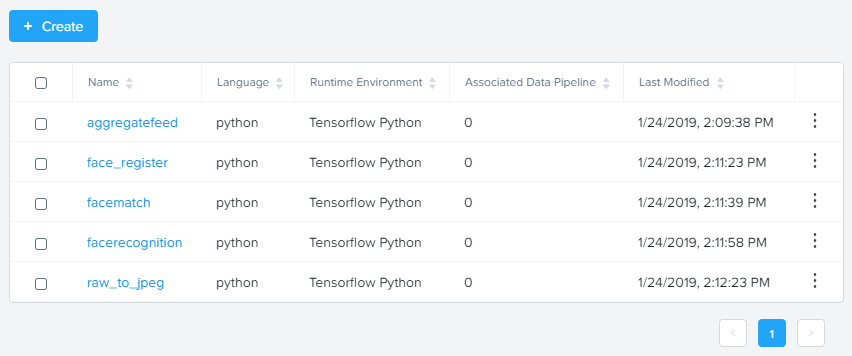
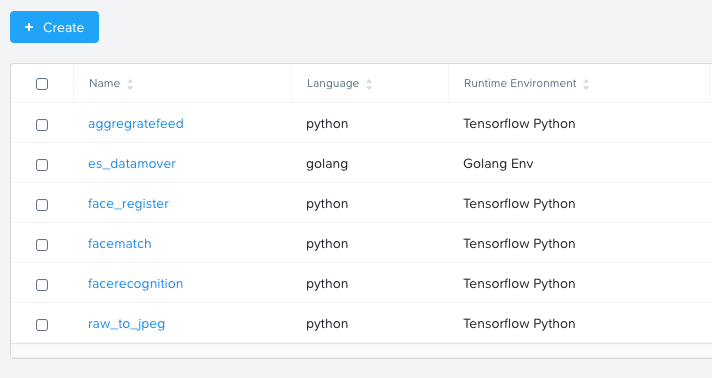
Updates for v1.12.

diff --git a/index.rst b/index.rst
@@ -47,10 +47,11 @@ The Facefeed application utilizes five Functions within two Data Pipelines to tr
 - **facematch.py** - Matches inference results to database of registered faces.
 - **facerecognition.py** - Uses a TensorFlow machine learning model to draw inference.
 - **raw_to_jpeg.py** - Converts the raw binary stream into a readable image format.
+- **es_datamover.go - Streams output into a local Elasticsearch instance for later recall.
 
 #. Open https://github.com/nutanix/xi-iot in a new browser tab and click **Clone or download > Download ZIP**.
 
-#. Extract the .zip file to a directory. These are required when referencing .yaml and .py files later in this tutorial.
+#. Extract the .zip file to a directory. These are required when referencing .yaml, .py, and .go files later in this tutorial.
 
 Defining Categories
 +++++++++++++++++++
@@ -223,8 +224,17 @@ This allows developers to re-use existing code, or quickly write new logic utili
 
 #. Click **Create**.
 
-#. Repeat Steps 1-5 to add the remaining 4 functions. The **Name** should follow the script name (without .py).
+#. Repeat Steps 1-5 to add the remaining four .py python functions. The **Name** should follow the script name (without .py). 
 
+#. Repeat Steps 1-4 once more to add the es_datamover.go function. Note that the Language and Runtime Environment should be golang, and Golang Env. 
+  
+   Before clicking Create, click **+ Add parameter** in the left pane.
+   Enter **esIndex** in the Name field.
+   Select **string** form the Type dropdown.
+   Click the :fa:`check` to save the parameter.
+
+#. Click **Create**.
+   
    Once completed, your environment should match the image below:
 
    .. figure:: images/10.png
@@ -256,8 +266,11 @@ This Data Pipeline will source the frames from a local webcam or uploaded image 
    - Select **+ Add Function > facerecognition**
    - Select :fa:`plus-circle` to add an additional function
    - Select **face_register**
-   - Select **+ Add Destination > Edge**
-   - **Endpoint Type** - Elasticsearch
+   - Select :fa:`plus-circle` to add an additional function
+   - Select **es_datamover**
+   - Type **datastream-face_register** in the esIndex (string) field.
+   - Select **+ Add Destination > Infrastructure**
+   - **Endpoint Type** - Realtime Data Stream
    - **Endpoint Name** - datastream-faceregister
 
    .. figure:: images/11.png
@@ -292,8 +305,11 @@ The containerized UI application you’ll deploy will show the known vs unknown 
    - Select **facematch**
    - Select :fa:`plus-circle` to add an additional function
    - Select **aggregatefeed**
-   - Select **+ Add Destination > Edge**
-   - **Endpoint Type** - Elasticsearch
+   - Select :fa:`plus-circle` to add an additional function
+   - Select **es_datamover**
+   - Type **datastream-facerecognitionlivefeed** in the esIndex (string) field.
+   - Select **+ Add Destination > Infrastructure**
+   - **Endpoint Type** - Realtime Data Stream
    - **Endpoint Name** - datastream-facerecognitionlivefeed
 
    .. figure:: images/12.png
@@ -307,9 +323,8 @@ The containerized UI application you’ll deploy will show the known vs unknown 
 
    Here’s a breakdown of options and typical use cases:
 
-   - **Edge**
+   - **Infrastructure**
        - **Kafka** - real-time streaming between edge local applications
-       - **Elasticsearch** - search and analytics database (NoSQL) for temporary data sharing between edge local applications
        - **MQTT** - real-time streaming devices (actuators or other edge devices)
        - **Realtime Data Stream** - real-time streaming between Xi IoT Data Pipelines
    - **Cloud**
